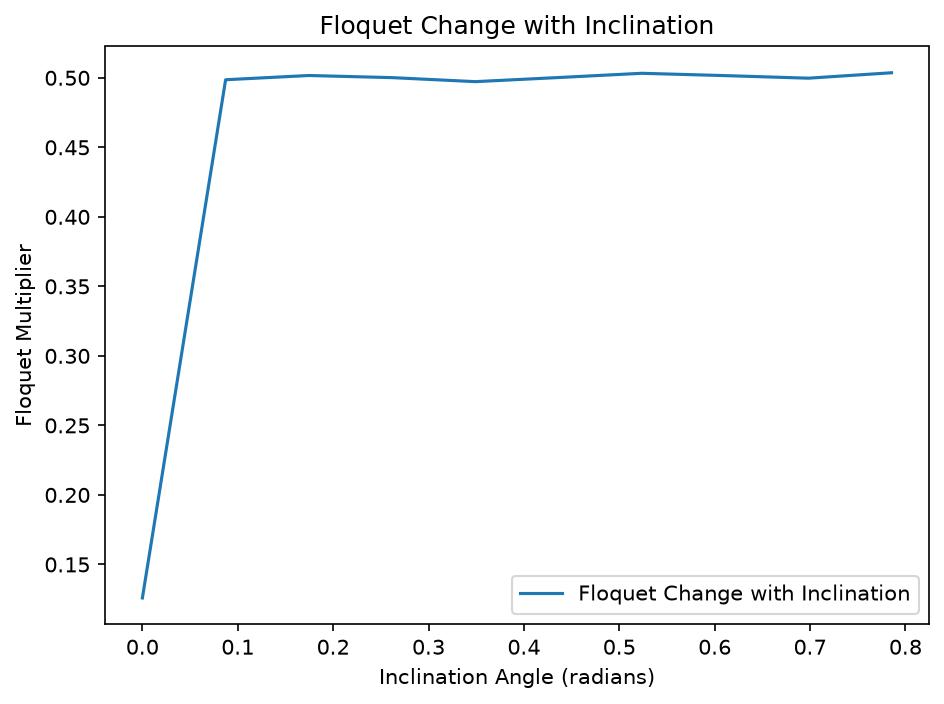
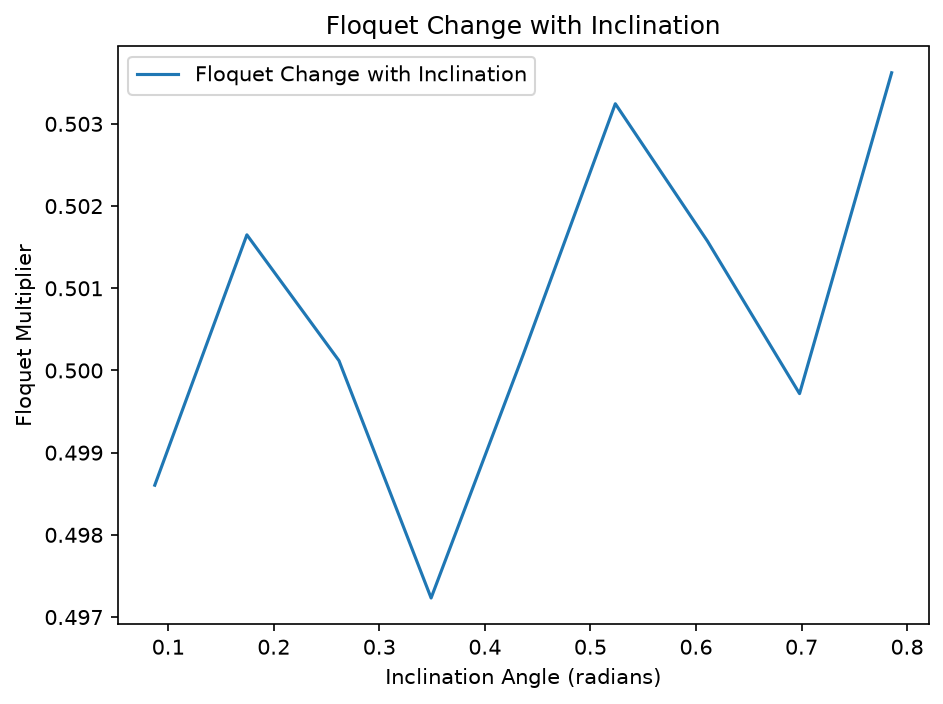
first correct run of invertedpendulum

diff --git a/models/inverted_pendulum_walker.py b/models/inverted_pendulum_walker.py
@@ -7,27 +7,50 @@ of those functions; it draws a supplied state without advancing the simulation.
 import matplotlib.pyplot as plt
 import numpy as np
 
-
 def generate_params():
-    pass
+    params = {
+    "gravity": 9.81,  # m/s^2
+    "length": 1.0,  # m
+    "mass": 1.0,  # kg
+    "incline": 0.06,  # rad
+    "angle_of_attack": np.pi / 8,  # rad
+    "ankle_torque": 0.0,  # N m
+    }
+
+    return params
 
 
 def dynamics(t, state, params):
     # TODO: implement the state derivative.
-    return np.array([0.0, 0.0])
+    theta = state[0]
+    theta_dot= state[1]
+    length = params["length"]
+    gravity = params["gravity"]
+    theta_double_dot = (gravity / length) * np.sin(theta) #eom for inverted pendulum
+    return np.array([theta_dot, theta_double_dot])
 
 
-def event_guard(previous_state, next_state, params):
-    pass
+def event_guard(previous_state, next_state, params): #TRUE if forward switch spoke
+    touchdown_angle = params["incline"] + params["angle_of_attack"] #gamma + alpha
+    return previous_state[0] > touchdown_angle  <= next_state[0]
 
 
 def event_dynamics(state, params):
-    pass
+    incline, angle_of_attack = params["incline"], params["angle_of_attack"]
+    #reset angle to alpha-gamma, angular velocity changed
+    return np.array([incline - angle_of_attack, np.cos(2 * angle_of_attack) * state[1]])
 
 
 def calculate_energy(state, params):
-    pass
-
+    length = params["length"]
+    mass = params["mass"]
+    gravity = params["gravity"]
+    theta = state[0]
+    theta_dot = state[1]
+    kinetic_energy = 0.5 * mass * length**2 * theta_dot**2
+    potential_energy = mass * gravity * length * np.cos(theta)  # hub height above stance foot
+    total_energy = kinetic_energy + potential_energy
+    return total_energy
 
 def visualize(
     state,
